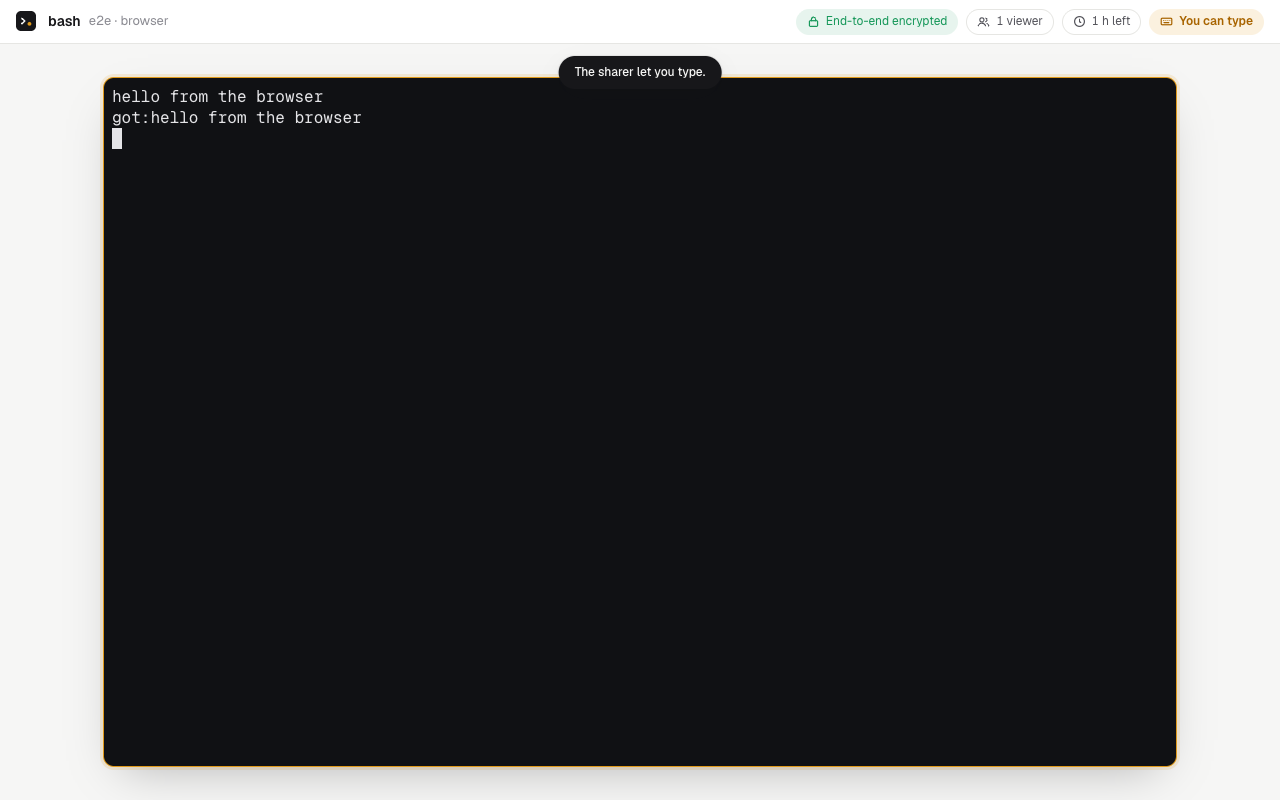
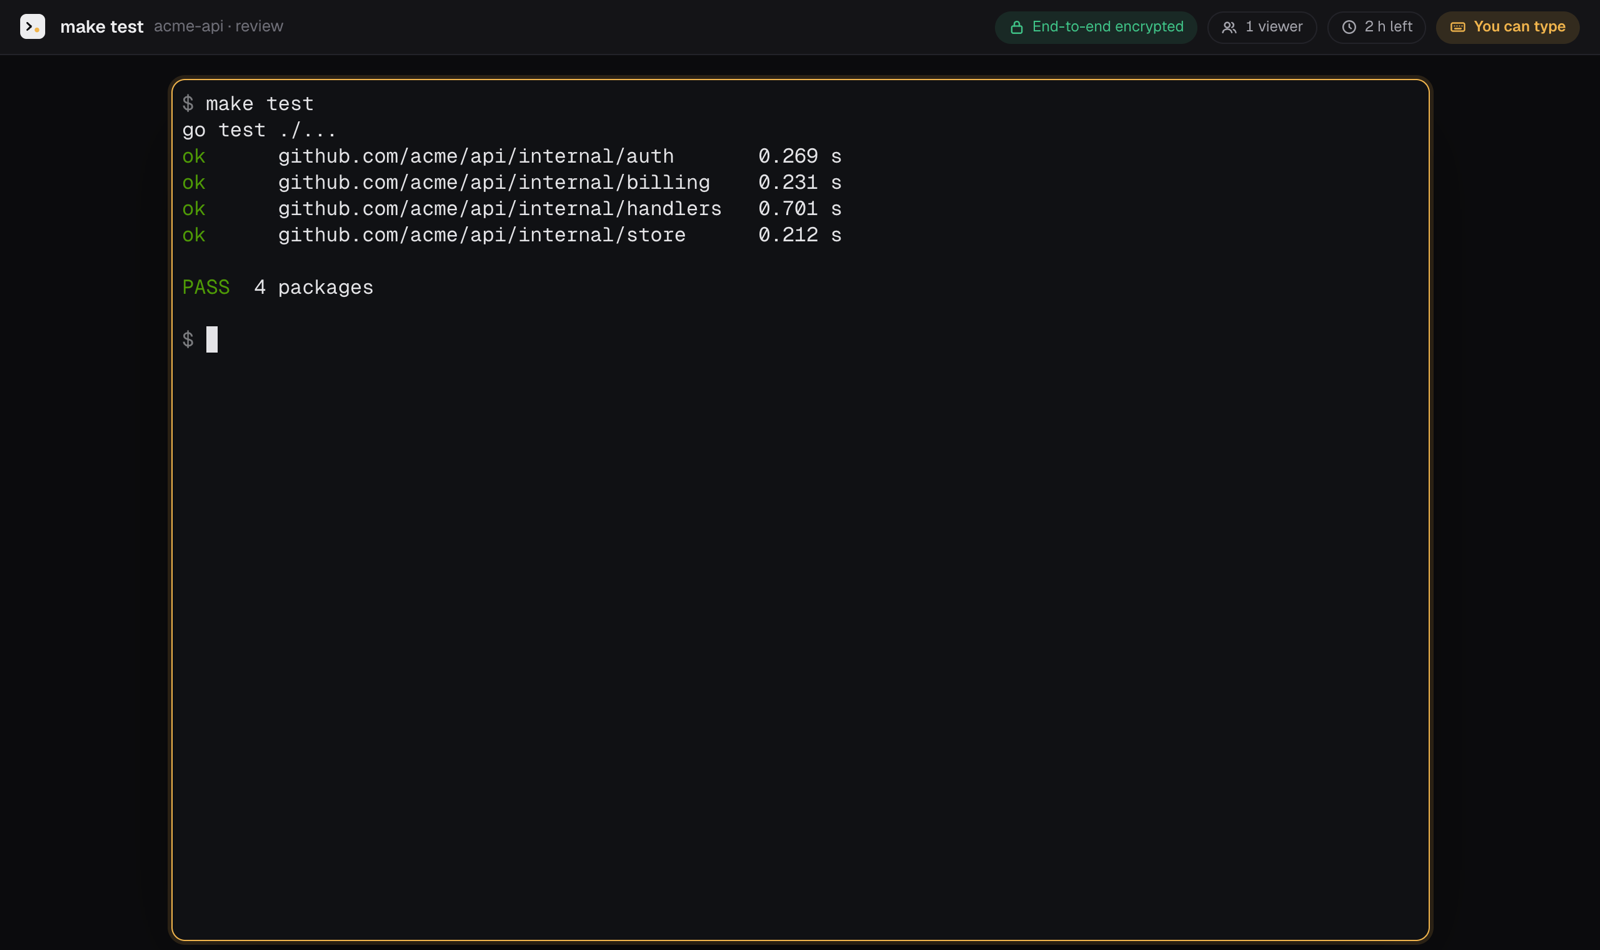
docs: dark screenshots and neutral example names
New dark-theme screenshots of the Share dialog (also the herdr.dev
preview) and the viewer page, taken in an isolated Herdr, and example
labels that name no real project.

Changed region(s): [[0.0, 0.0, 1.0, 1.0]]

diff --git a/internal/cli/start.go b/internal/cli/start.go
@@ -161,7 +161,7 @@ terminal until you stop the share, it expires, or the terminal ends.
 If the terminal is already shared, its existing share is shown instead.`,
 		Example: `  herdr-share start t7
   herdr-share start t7 --mode control --ttl 30m --copy
-  herdr-share start review --label "voltdance · review" --json`,
+  herdr-share start review --label "acme-api · review" --json`,
 		Args: cobra.ExactArgs(1),
 		RunE: func(cmd *cobra.Command, args []string) error {
 			return a.start(cmd.Context(), args[0], f)

diff --git a/herdr/herdr-share/RECIPE.md b/herdr/herdr-share/RECIPE.md
@@ -15,7 +15,7 @@ A dialog, 500px wide (`mod.json` overlay `dialog`), `popover` background, 18px p
 13px text. One of four bodies, plus an error box and a footer:
 
 - **Header** (every body): a 15px semibold title, under it a 12px `muted` subtitle — the program
-  and where it lives (`claude · voltdance`, `zsh · api · review`); an 11px `dim` `Esc` on the right.
+  and where it lives (`make test · acme-api · review`, `claude · api`); an 11px `dim` `Esc` on the right.
 - **Relay** (first run, or *Relay settings*): title `Relay`, subtitle *Where shared sessions are
   relayed…*. Two fields, each an 11.5px `dim` label over a 34px input (8px radius, `input` border,
   `background` fill, 12.8px): **Relay address** (placeholder `https://share.example.com`) and

diff --git a/docs/usage.md b/docs/usage.md
@@ -73,7 +73,7 @@ Closing the dialog changes nothing: the share keeps running in the background.
 `herdr-share` is `npx --prefer-offline -y herdr-share` (or the command, if installed globally):
 
 ```sh
-herdr-share start t7 --mode view --ttl 2h --copy --label "voltdance · review"
+herdr-share start t7 --mode view --ttl 2h --copy --label "acme-api · review"
 herdr-share list
 herdr-share status t7
 herdr-share mode t7 control      # or: view
